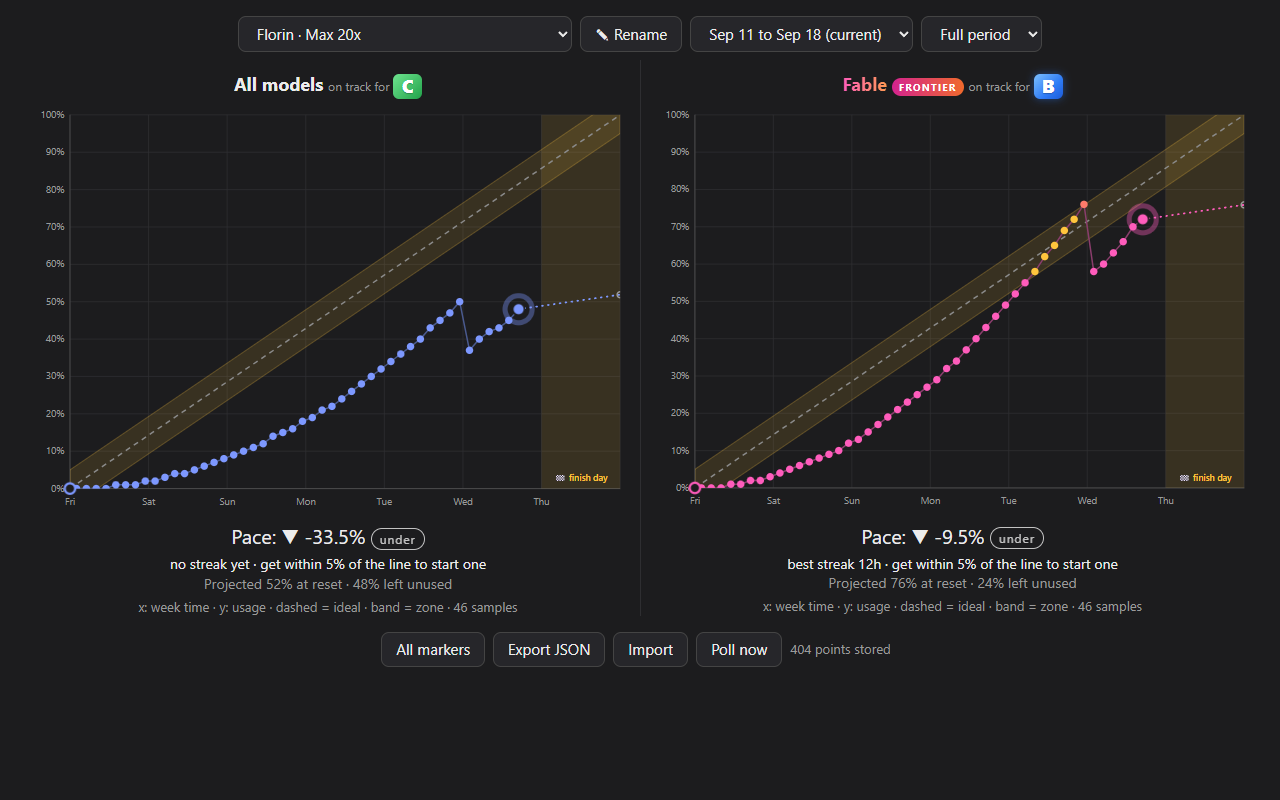
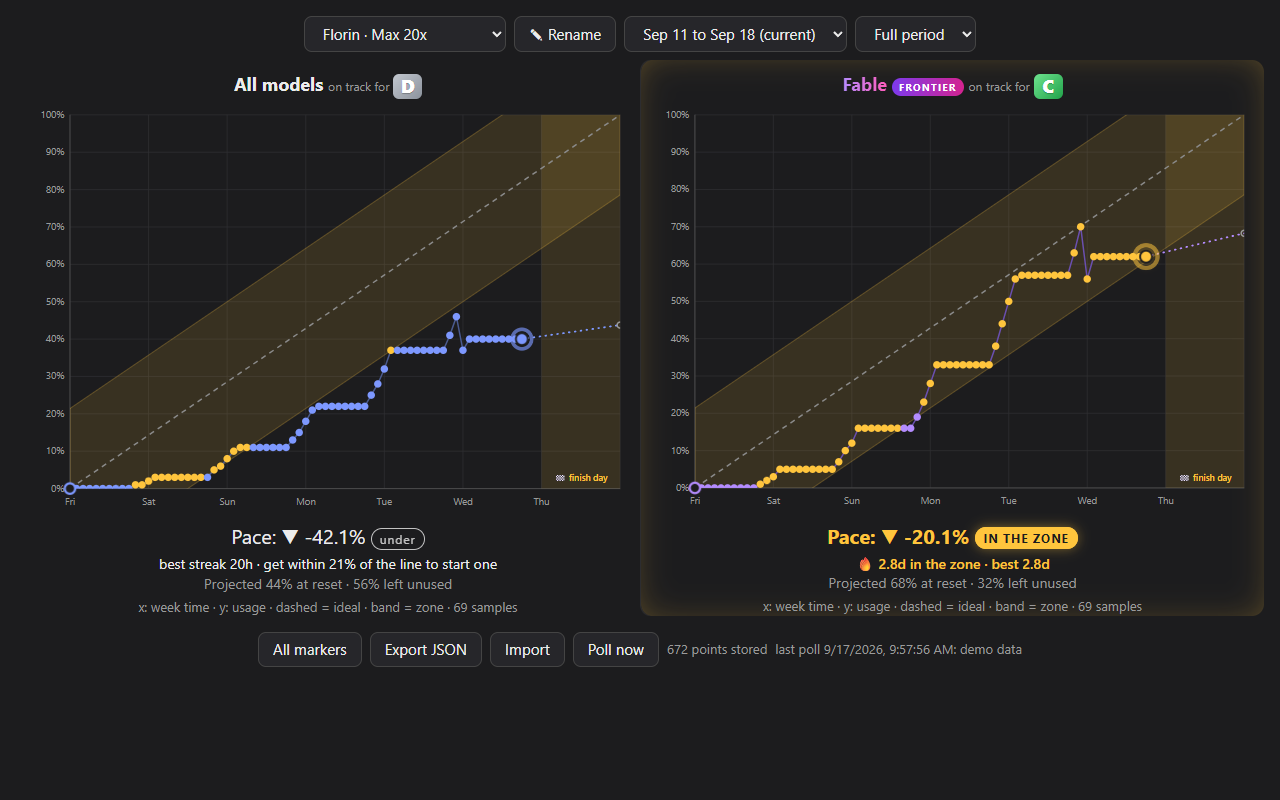
Widen pace zone to 36 hours so a normal work rhythm can stay in it

diff --git a/dev/demo.html b/dev/demo.html
@@ -9,13 +9,26 @@
   await loadScript('../extension/pace.js'); // demo data uses finishWindow
   const H = 36e5;
   const points = [];
+  // Usage only moves in work time, 09:00 to 17:00 local, so every curve goes flat for the 16 h the person is away,
+  // like a real account. worked(a, b) = work ms inside [a, b]; workFrac replaces the plain time fraction as the
+  // input of each usage curve. Weekends count as work days: flat weekends make the 24 h projection overshoot.
+  const worked = (a, b) => {
+    let ms = 0;
+    const d = new Date(a);
+    d.setHours(0, 0, 0, 0);
+    for (; d.getTime() < b; d.setDate(d.getDate() + 1)) {
+      ms += Math.max(0, Math.min(b, new Date(d).setHours(17)) - Math.max(a, new Date(d).setHours(9)));
+    }
+    return ms;
+  };
+  const workFrac = (t, start, end) => worked(start, t) / worked(start, end);
   // Two accounts with different reset times, plus one account's previous week.
   const accounts = [['org-a', 1.2, 1.0], ['org-b', 3.4, 0.6], ['org-a', 1.2 - 7, 0.8]];
   for (const [org, daysLeft, scale] of accounts) {
     const end = Date.now() + daysLeft * 864e5, start = end - 7 * 864e5;
     for (const [key, rate] of [['All models', 0.62], ['Fable', 0.95]]) {
-      for (let t = start + 2 * H; t < Math.min(end, Date.now()); t += 3 * H) {
-        const f = (t - start) / (end - start);
+      for (let t = start + 2 * H; t < Math.min(end, Date.now()); t += 2 * H) {
+        const f = workFrac(t, start, end);
         let pct = Math.round(Math.min(100, scale * rate * 100 * f * f * 1.6));
         if (org === 'org-a' && t > Date.now() - 20 * H) pct = Math.round(pct * 0.72); // limit bump
         points.push({ t, org, key, pct, reset: end });
@@ -28,10 +41,12 @@
   for (const back of [1, 0]) {
     const mStart = Date.UTC(now.getUTCFullYear(), now.getUTCMonth() - back, 1);
     const mEnd = Date.UTC(now.getUTCFullYear(), now.getUTCMonth() - back + 1, 1);
-    const fin = finishWindow(mEnd, mStart).start;
-    for (let t = mStart + 5 * H; t < Math.min(mEnd, Date.now()); t += 8 * H) {
-      const f = (t - mStart) / (mEnd - mStart);
-      let pct = back ? Math.min(100, 100 * f * (mEnd - mStart) / (fin + 10 * H - mStart)) : 100 * f * 0.93;
+    const fin = finishWindow(mEnd, mStart);
+    // last month reaches 100% halfway through the work done inside its finish window
+    const hit = (workFrac(fin.start, mStart, mEnd) + workFrac(fin.end, mStart, mEnd)) / 2;
+    for (let t = mStart + 5 * H; t < Math.min(mEnd, Date.now()); t += 4 * H) {
+      const f = workFrac(t, mStart, mEnd);
+      let pct = back ? Math.min(100, 100 * f / hit) : 100 * f * 0.93;
       pct = Math.round(pct * 10) / 10;
       points.push({ t, org: 'org-c', key: 'Monthly spend', pct, reset: mEnd, start: mStart,
                     used: Math.round(pct * 5 * 100) / 100, limit: 500, currency: 'USD' });
@@ -50,20 +65,26 @@
   const scenario = new URLSearchParams(location.search).get('scenario');
   if (scenario === 's' || scenario === 'a') {
     points.length = 0;
-    const end = Date.now() - 2 * 864e5, start = end - 7 * 864e5;
-    // wave amplitude * 2pi / period must stay below 100 so usage never goes down; finish() ramps into 100% instead
-    // of jumping there.
-    const wave = (f, at, period, amp) => amp * Math.sin((f - at) * 2 * Math.PI / period);
-    const finish = (f, base, from, to) => (f >= to ? 100 : f <= from ? base : base + (100 - base) * ((f - from) / (to - from)) ** 2);
+    // the week resets at 09:00, so each of its days is 8 h of work then 16 h flat and the 2 h samples hit the corners
+    const end = new Date(Date.now() - 2 * 864e5).setHours(9, 0, 0, 0), start = end - 7 * 864e5;
+    // knots [work fraction, pct], eased between them; pct never decreases, so usage never goes down. The zone is
+    // 21.4 points either side of the line, so under and over need swings of about 25.
+    const path = knots => f => {
+      const i = knots.findIndex(k => k[0] >= f);
+      if (i < 0) return knots[knots.length - 1][1];
+      if (i === 0) return knots[0][1];
+      const [f0, p0] = knots[i - 1], [f1, p1] = knots[i];
+      return p0 + (p1 - p0) * (1 - Math.cos(Math.PI * (f - f0) / (f1 - f0))) / 2;
+    };
     const curve = {
-      s: { 'All models': f => finish(f, 100 * f + wave(f, 0.15, 0.7, 10), 0.8, 0.955),
-           Fable: f => finish(f, 100 * f + wave(f, 0.5, 0.6, 8) - 1, 0.82, 0.965) },
-      a: { 'All models': f => Math.min(100, 100 * f * 1.32 + 6 * Math.sin(f * 5)),
+      s: { 'All models': path([[0, 0], [0.3, 5], [0.45, 40], [0.55, 80], [0.62, 86], [0.8, 88], [0.9, 93], [0.955, 100]]),
+           Fable: path([[0, 0], [0.2, 12], [0.42, 17], [0.56, 52], [0.7, 93], [0.86, 95], [0.965, 100]]) },
+      a: { 'All models': path([[0, 0], [0.25, 45], [0.5, 76], [0.65, 89], [0.839, 100]]),
            Fable: f => Math.min(100, 100 * f * 1.45) },
     }[scenario];
     for (const [key, fn] of Object.entries(curve)) {
       for (let t = start + 2 * H; t < end - 0.5 * H; t += 2 * H) {
-        const f = (t - start) / (end - start);
+        const f = workFrac(t, start, end);
         const pct = Math.round(Math.min(100, Math.max(0, fn(f))) * 10) / 10;
         points.push({ t, org: 'org-a', key, pct, reset: end });
       }
@@ -73,8 +94,8 @@
     points.length = 0;
     const mStart = Date.UTC(now.getUTCFullYear(), now.getUTCMonth(), 1);
     const mEnd = Date.UTC(now.getUTCFullYear(), now.getUTCMonth() + 1, 1);
-    for (let t = mStart + 5 * H; t < Date.now(); t += 6 * H) {
-      const f = (t - mStart) / (mEnd - mStart);
+    for (let t = mStart + 5 * H; t < Date.now(); t += 4 * H) {
+      const f = workFrac(t, mStart, mEnd);
       const pct = Math.round(Math.max(0, 100 * f + 3 * Math.sin(f * 9) - 1) * 10) / 10;
       points.push({ t, org: 'org-c', key: 'Monthly spend', pct, reset: mEnd, start: mStart,
                     used: Math.round(pct * 5 * 100) / 100, limit: 500, currency: 'USD' });

diff --git a/extension/pace.js b/extension/pace.js
@@ -3,7 +3,7 @@
 // monthly spend limits pass the month start explicitly.
 const PACE_WEEK = 7 * 864e5;
 const PACE_HOUR = 36e5;
-const PACE_ZONE = 5; // percentage points either side of the ideal line count as "in the zone"
+const PACE_ZONE_MS = 36 * PACE_HOUR; // this much ideal pace either side of the line counts as "in the zone"
 const PACE_FINAL_DAY = 24 * PACE_HOUR;
 const clampPct = v => Math.min(100, Math.max(0, v));
 
@@ -15,8 +15,14 @@ function deviation(p, end, start) {
   return p.pct - idealAt(p.t, end, start);
 }
 
-function zoneOf(d) {
-  return Math.abs(d) <= PACE_ZONE ? 'zone' : d > 0 ? 'over' : 'under';
+// Half height of the zone in percentage points. It is a time, so a day and a half without use starting on the
+// line stays in the zone on every period: 21.4 points on a week, about 5 on a month.
+function zonePts(end, start = end - PACE_WEEK) {
+  return PACE_ZONE_MS / (end - start) * 100;
+}
+
+function zoneOf(d, z) {
+  return Math.abs(d) <= z ? 'zone' : d > 0 ? 'over' : 'under';
 }
 
 // The window where reaching 100% earns the top rank. Always a full 24 h: a reset at 00:20 must not leave
@@ -37,11 +43,13 @@ function finishWindow(end, start = end - PACE_WEEK) {
 
 // Zone of a sample. Nothing used yet never counts as in the zone, or every period would start with a free streak.
 // At 100% inside the finish window the goal is reached, so it is not "over" even though the line is below 100.
+// At 100% before it the limit blocks use, so it is "over" even where the zone reaches up to 100.
 function sampleZone(p, end, start) {
   if (p.pct <= 0) return 'under';
   const fin = finishWindow(end, start);
   if (p.pct >= 100 && p.t >= fin.start && p.t <= fin.end) return 'zone';
-  return zoneOf(deviation(p, end, start));
+  if (p.pct >= 100 && p.t < fin.start) return 'over';
+  return zoneOf(deviation(p, end, start), zonePts(end, start));
 }
 
 // Longest and current run of consecutive in-zone samples, in ms. pts sorted by t.
@@ -112,6 +120,6 @@ function formatMoney(v, currency = 'USD') {
 const periodStart = p => (Number.isFinite(p.start) ? p.start : p.reset - PACE_WEEK);
 
 if (typeof module !== 'undefined') {
-  module.exports = { PACE_WEEK, PACE_HOUR, PACE_ZONE, PACE_FINAL_DAY, idealAt, deviation, zoneOf, finishWindow, sampleZone,
+  module.exports = { PACE_WEEK, PACE_HOUR, PACE_ZONE_MS, PACE_FINAL_DAY, idealAt, deviation, zonePts, zoneOf, finishWindow, sampleZone,
                      streaks, projection, weekResult, periodStart, formatMoney };
 }

diff --git a/dev/test_pace.js b/dev/test_pace.js
@@ -8,22 +8,31 @@ const near = (a, b, eps = 1e-6) => assert(Math.abs(a - b) < eps, `${a} != ${b}`)
 
 // ideal line: half the week = 50%
 near(P.idealAt(start + 84 * H, end), 50);
-assert.strictEqual(P.zoneOf(4.9), 'zone');
-assert.strictEqual(P.zoneOf(-5), 'zone');
-assert.strictEqual(P.zoneOf(-5.1), 'under');
-assert.strictEqual(P.zoneOf(6), 'over');
+// zone: 36 h of pace either side of the line, 21.4 points on a week and about 5 on a month
+const Z = P.zonePts(end);
+near(Z, 36 / 168 * 100);
+near(P.zonePts(Date.UTC(2026, 5, 1), Date.UTC(2026, 4, 1)), 36 / (31 * 24) * 100);
+assert.strictEqual(P.zoneOf(21, Z), 'zone');
+assert.strictEqual(P.zoneOf(-Z, Z), 'zone');
+assert.strictEqual(P.zoneOf(-21.5, Z), 'under');
+assert.strictEqual(P.zoneOf(22, Z), 'over');
+// on the line at 84h, then no use: still in the zone 35 h later, out after two days
+assert.strictEqual(P.sampleZone(at(84 + 35, 50), end), 'zone');
+assert.strictEqual(P.sampleZone(at(84 + 48, 50), end), 'under');
 
 // streaks: in zone at 84h and 90h, out at 96h, back in at 102h and 114h
-const s = P.streaks([at(84, 50), at(90, 54), at(96, 40), at(102, 60), at(114, 67)], end);
+const s = P.streaks([at(84, 50), at(90, 54), at(96, 30), at(102, 60), at(114, 67)], end);
 assert.strictEqual(s.best, 12 * H);
 assert.strictEqual(s.current, 12 * H);
 assert.strictEqual(P.streaks([at(84, 50), at(96, 20)], end).current, null);
-// 0% at the week start is within 5 pts of the line but is not a streak
+// 0% at the week start is inside the band but is not a streak
 assert.strictEqual(P.sampleZone(at(2, 0), end), 'under');
 assert.strictEqual(P.streaks([at(1, 0), at(6, 0), at(12, 0)], end).best, 0);
 // 100% on the final day is the goal, not "over"; 100% two days early is over
 assert.strictEqual(P.sampleZone(at(150, 100), end), 'zone');
 assert.strictEqual(P.sampleZone(at(120, 100), end), 'over');
+// 100% 33 h before the reset sits inside the band (19.6 over) but the limit blocks use: over
+assert.strictEqual(P.sampleZone(at(135, 100), end), 'over');
 
 // projection: steady 1%/h over the last day, 84h left after 84h at 50% => lands at 134, hits 100 after 50 more hours
 const pts = [];

diff --git a/extension/chart.js b/extension/chart.js
@@ -1,4 +1,5 @@
 const HOUR = 36e5;
+const UNUSED_WARN = 5; // projected % left unused at the reset above which the line turns red
 const NS = 'http://www.w3.org/2000/svg';
 // orgNames, orgPlans and orgUsers (the signed-in person's name) come from claude.ai; orgAliases are names the
 // user typed and win over everything.
@@ -194,7 +195,7 @@ function panel(name, pts, end, start) {
   el('text', { class: 'finish-label', x: (fx + X(fin.end)) / 2, y: H - B - 10, 'text-anchor': money ? 'end' : 'middle' }, g)
     .textContent = `🏁 ${finName}`;
   if (money) g.lastChild.setAttribute('x', X(fin.end) - 4); // a one-day column in a month is narrow
-  const Z = PACE_ZONE;
+  const Z = zonePts(end, start);
   el('polygon', { class: 'zone-band', points: [[start, -Z], [end, 100 - Z], [end, 100 + Z], [start, Z]]
     .map(([t, v]) => `${X(t)},${Y(v)}`).join(' ') }, g);
   el('line', { x1: X(start), y1: Y(0), x2: X(end), y2: Y(100), stroke: 'var(--ideal)',
@@ -296,7 +297,7 @@ function panel(name, pts, end, start) {
     line1.textContent = st.current < HOUR ? `🔥 In the zone: streak starts now${best}` : `🔥 ${fmtDur(st.current)} in the zone${best}`;
   } else {
     line1.textContent = (st.best >= HOUR ? `best streak ${fmtDur(st.best)}` : 'no streak yet')
-      + (live ? ` · get within ${PACE_ZONE}% of the line to start one` : '');
+      + (live ? ` · get within ${Math.round(zonePts(end, start))}% of the line to start one` : '');
   }
   if (st.current !== null && live) line1.className = 'streak-on';
   stats.appendChild(line1);
@@ -314,7 +315,7 @@ function panel(name, pts, end, start) {
     } else {
       const left = 100 - Math.min(100, proj.projected);
       line2.textContent = `Projected ${amount(Math.min(100, proj.projected))} at reset · ${amount(left)} left unused`;
-      if (left > PACE_ZONE) line2.className = 'loss';
+      if (left > UNUSED_WARN) line2.className = 'loss';
     }
     stats.appendChild(line2);
   }

diff --git a/dev/test_poll.js b/dev/test_poll.js
@@ -10,7 +10,7 @@ const listeners = {};
 const ev = name => ({ addListener: fn => { listeners[name] = fn; } });
 let usageFail = new Set();
 let accountFails = false;
-let orgAPct = 44;
+let orgAPct = 30; // 27 under the ideal, outside the 21.4 point zone
 let orgADays = 3;
 const badge = {};
 
@@ -112,7 +112,7 @@ const poll = () => new Promise(res => listeners.message('poll', {}, res));
   store.selectedOrg = 'org-a';
   await listeners.changed({ selectedOrg: { newValue: 'org-a' } });
   await new Promise(r => setTimeout(r, 10));
-  assert.strictEqual(badge.text, '-13%');
+  assert.strictEqual(badge.text, '-27%');
   assert.strictEqual(badge.color, '#3553b5');
 
   // one point per minute per series, driven by a fake clock inside background.js
@@ -147,7 +147,7 @@ const poll = () => new Promise(res => listeners.message('poll', {}, res));
   assert.strictEqual(badge.color, '#d99a00', `badge ${badge.text} ${badge.color} ${badge.title}`);
   assert(/in the zone/.test(badge.title), badge.title);
   orgADays = 3;
-  orgAPct = 44;
+  orgAPct = 30;
   vm.runInContext('Date.now = globalThis.__realNow', ctx);
 
   // one org failing keeps the other's point and reports the error

diff --git a/README.md b/README.md
@@ -4,17 +4,17 @@ Unofficial Chrome extension (MV3). Polls claude.ai weekly limits every 10 minute
 
 ## What it looks like
 
-**Rank S: the ideal week.** Usage drifts under the dashed ideal line (blue dots, violet on Fable), overshoots it (red), comes back within 5 points of it (gold, "in the zone") and reaches 100% on the finish day, the last 24 hours before the reset. Nothing left unused, nothing blocked early.
+**Rank S: the ideal week.** The flat stretches are the hours away from work. Usage drifts under the dashed ideal line (blue dots, violet on Fable), overshoots it (red), comes back within a day and a half of pace of it (gold, "in the zone": 21 points on a week) and reaches 100% on the finish day, the last 24 hours before the reset. Nothing left unused, nothing blocked early.
 
 ![Rank S: usage wanders under, over and back into the zone, then hits 100% on the finish day](docs/rank-s.png)
 
-**Rank A: ran out early.** Usage climbs faster than the line (red dots) and hits 100% 34 hours before the reset, so the limit blocks the last day. Each day early costs one rank: A, then B (the Fable chart here), then C.
+**Rank A: ran out early.** Usage climbs faster than the line (red dots) and hits 100% 40 hours before the reset, so the limit blocks the last day. Each day early costs one rank: A, then B (the Fable chart here), then C.
 
 ![Rank A: 100% reached a day and a half before the reset](docs/rank-a.png)
 
 **Monthly spend limit.** Seats with only a monthly $ cap (Enterprise) get one chart in money instead of percent. The period is the calendar month and the finish window is its last working day. Live periods show the pace, the current streak and where the spend is projected to land at the reset.
 
-![Monthly spend: $242 of $500 in the zone, projected $470 at reset](docs/monthly.png)
+![Monthly spend: $247 of $500 in the zone, projected $467 at reset](docs/monthly.png)
 
 Screenshots come from `dev/demo.html?scenario=s`, `?scenario=a` and `?scenario=monthly`, rendered with synthetic data.
 
